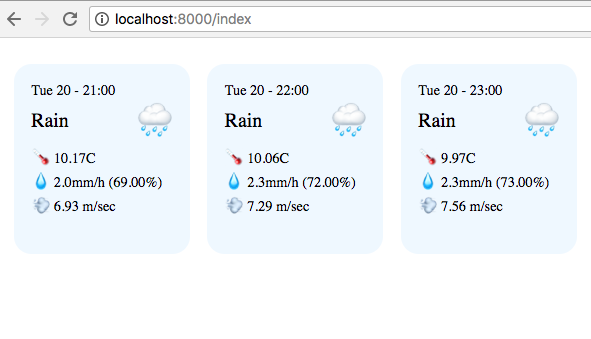
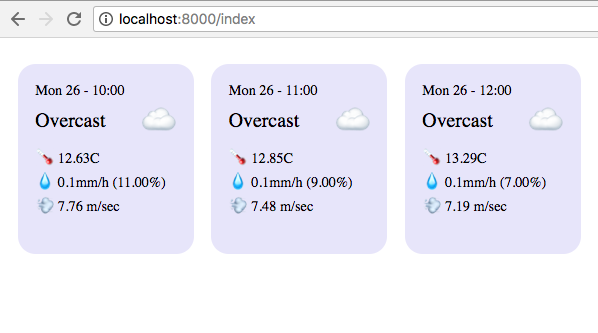
wrote README, code cleanup

diff --git a/server/index.html b/server/index.html
@@ -14,7 +14,7 @@
       list-style: none;
       width: 8em;
       grid-row-start: 1;
-      background: aliceblue;
+      background: lavender;
       padding: 1em;
       margin: .5em;
       border-radius: 1em;

diff --git a/README.md b/README.md
@@ -1,12 +1,39 @@
 # ReasonML server and client example
 
-A simple example of a client-server application using DarkSky API (https://darksky.net/dev).
+A minimal example of a Reason client-server web application.
+
+## Why? 
+
+AFAICT there isn't many example of server-side Reason code using OCaml libraries (instead of node.js). 
+
+Our server is a little HTTP server written using OCaml's Cohttp library (https://github.com/mirage/ocaml-cohttp).
+This server calls DarkSky's API (https://darksky.net/dev) to retrieve a 48 hours weather forecast for a given location, and return a subset of that data to its clients.
+
+The client is written as a ReasonReact program, it sends its location to the server and displays the forecast like this (see screenshot below).
 
 ![screenshot](weather.png "screenshot")
 
 
 
+
 ## Client
+
+### overview
+
+The weather component first tries to access the client location via ```Geo.getLocation``` (using ```navigator.geolocation.getCurrentPosition``` via the FFI ). If successful, it gets back the position via the ```sendPos``` callback. If an error occurs, it gets back an error message via the ```sendErr``` callback.
+
+When the message ```PosLoaded(lat,lon)``` is received we call the server via ```Api.fetchTemperature```. This function fetch the data and parse the JSON response into an ```Api.point``` value. Then we send the ```DataLoaded(pts)``` message.
+
+When the message ```DataLoaded(pts)``` is received, we update the internal state, which causes re-rendering. 
+
+```render``` maps over a list of weather data points to turn them into a list of ```Point``` components. 
+
+The ```Point``` component is stateless, it only formats data and generates HTML.
+
+
+### prerequisites
+
+* as well as ```reason-react```, we use the ```bs-json``` and ```bs-fetch``` libraries
 
 ### to build
 
@@ -17,15 +44,49 @@ A simple example of a client-server application using DarkSky API (https://darks
 
 ## Server 
 
+### overview
+
+The server uses Lwt, a cooperative threading library. Lwt values are monadic and must be composed via the usual monadic operators ```>>=``` (bind) and ```return``` (see tutorial: https://mirage.io/wiki/tutorial-lwt), so instead of:
+
+```
+printf("HTTP server started on port %s\n", string_of_int(port));
+Server.create(~mode=`TCP(`Port(port)), Server.make(~callback, ()));
+```
+
+we have to write:
+
+```
+ Lwt_io.printf("HTTP server started on port %s\n", string_of_int(port))
+  >>= (
+    (_) => Server.create(~mode=`TCP(`Port(port)), Server.make(~callback, ()))
+  );
+```
+
+To create a server, we define a function ```callback```, it parses the request URI and handles the following "routes": 
+
+* ```/index.js```: serves the file ```./index.js``` (which contains the compiled ReasonReact client code)
+* ```/index```: serves the file ```./index.html```
+* ```/weather/LAT/LON```:  returns the forecast for latitude ```LAT``` and longitude ```LON``` as JSON
+
+The function ```darsky(key, lat, lon)``` calls the api and extracts a subset of the JSON data into a ```Datapoint.t``` value, via the function ```Datapoint.of_json```.
+
+Note that, because ```callApi``` returns a Lwt value (```Lwt.t(string)```), the result of ```dataPoints``` needs to be lifted to a Lwt.t value (here, via ```>|=```).
+
+Finally, we convert our datapoint values to JSON with ```string_of_datapoints``` (the ``` `A``` constructor is the array constructor in ```Ezjsonm```, the JSON library we are using here).     
+
+
+
+
 ### prerequisites
 
 * you need to put your DarkSky API key in the `DARKSKY_API_KEY` environment variable
 * you need the OCaml 4.02.3+buckle-master compiler
-* libraries you need to install: cohttp, ezjsonm and re 
+* libraries you need to install: lwt, cohttp, ezjsonm and re 
 
 ```
+$ export DARKSKY_API_KEY=YOUR_KEY_HERE
 $ opam switch 4.02.3+buckle-master
-$ opam install cohttp.0.22.0 ezjsonm re
+$ opam install lwt cohttp.0.22.0 ezjsonm re
 ```
 
 ### to build and start
@@ -34,4 +95,4 @@ $ opam install cohttp.0.22.0 ezjsonm re
     $ make build
     $ make start
 
-open http://localhost:8000 in a browser
+open http://localhost:8000/index in a browser
